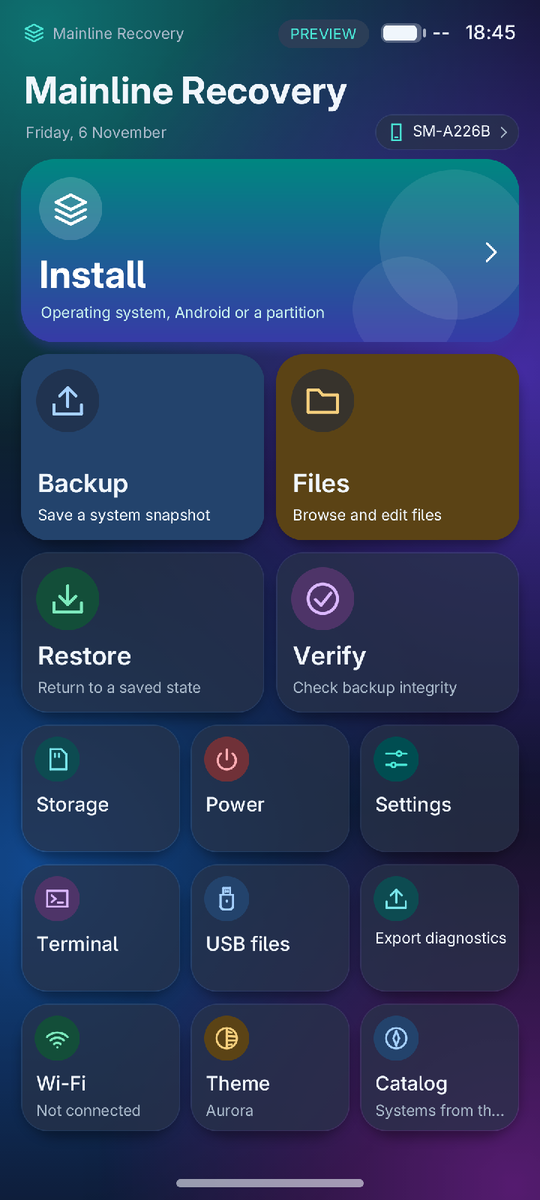
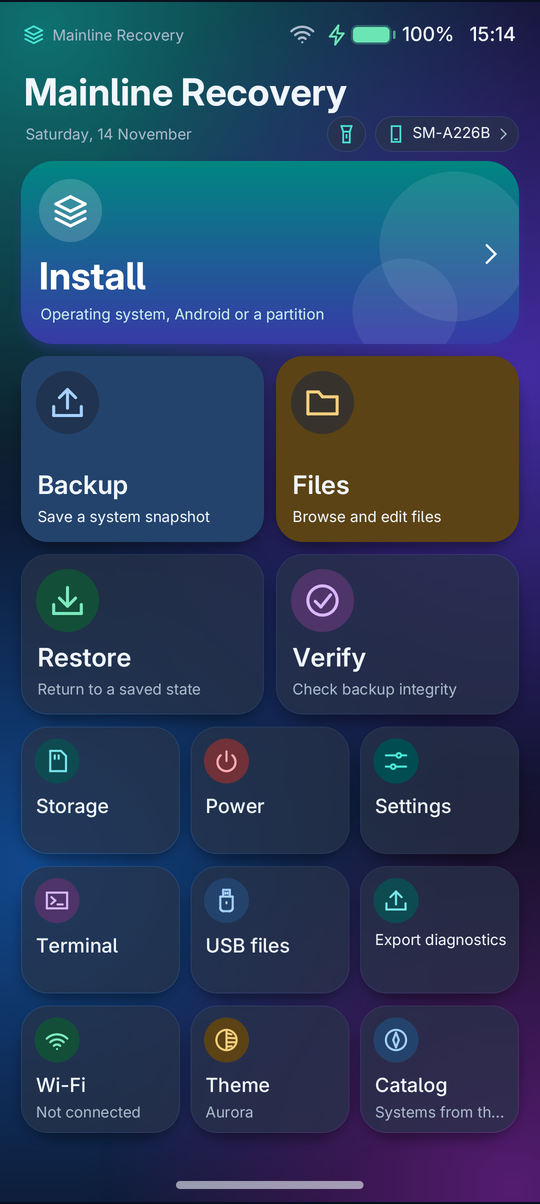
Screenshots of the three themes from the phone, in the post draft too
home-graphite, home-daylight and home-aurora and themes.jpg taken again
on the phone with 1.0.1 (English, no private data); the XDA post draft
shows the three themes.

Claude-Session: https://claude.ai/code/session_011X51MKJthVPvtS2DAvZBdY

diff --git a/README.md b/README.md
@@ -18,8 +18,7 @@ Ukrainian: [README.uk.md](README.uk.md) · What changed in each version:
 
 ## Screenshots
 
-Rendered by the interface itself from its preview data. The three built-in
-themes, Graphite, Daylight and Aurora:
+The three built-in themes, Graphite, Daylight and Aurora (on the phone, 1.0.1):
 
 ![The three themes](docs/screenshots/themes.jpg)
 
